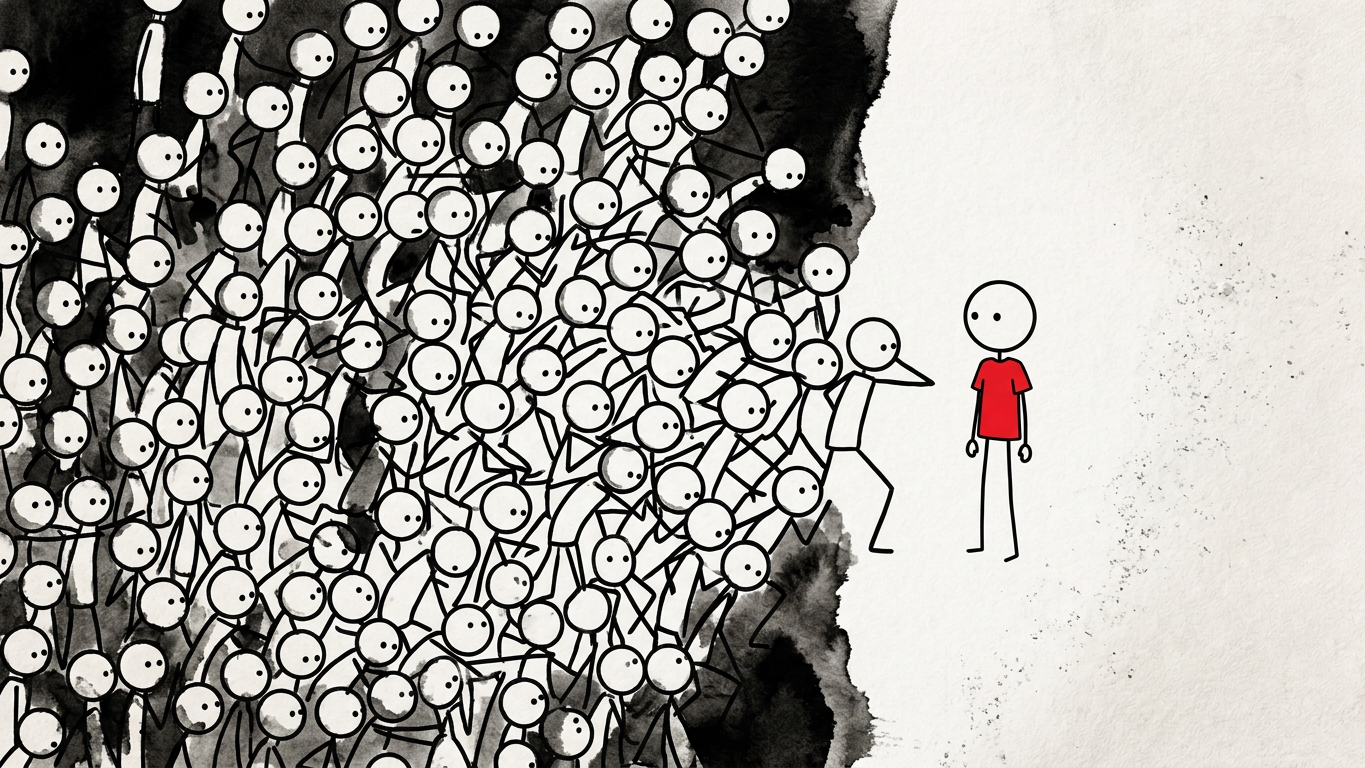
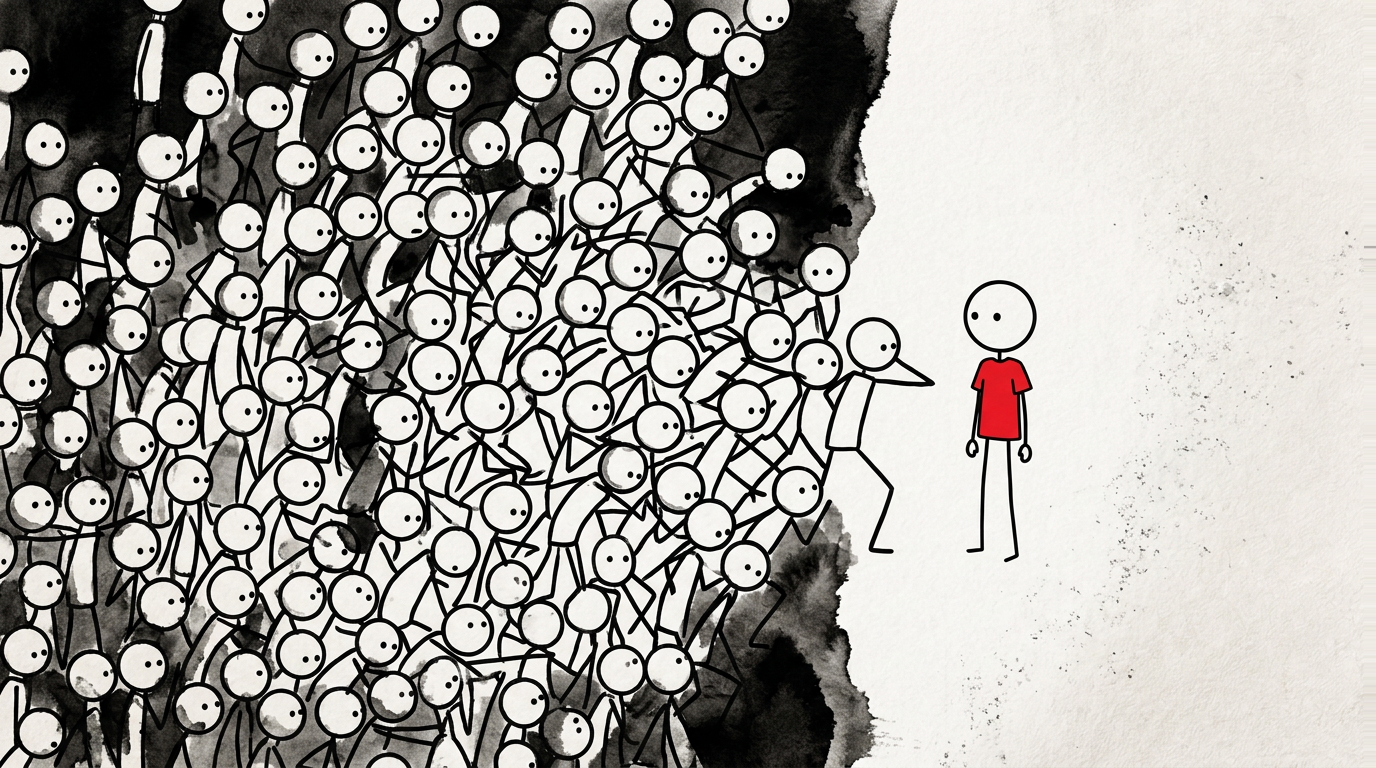
ep01: drop spoken name (Saiki survives -> You survive), fix 3 undersized frames, rebuild animatic

diff --git a/examples/crowd_crush_video/STATUS.md b/examples/crowd_crush_video/STATUS.md
@@ -1,7 +1,41 @@
-# STATUS — `crowd_crush` (Saiki Survives, Ep. 01) — **FRAMES COMPLETE**
+# STATUS — `crowd_crush` (Ep. 01) — **FIXED, READY FOR ENCODE**
 
 **78 / 78 frames.** Silent animatic runs **3:01** at 2.75 words/sec.
 Frame production done. Next step is the Kaggle encode.
+
+## Name fix (2026-10-26)
+
+The spoken line `Saiki survives. See you next time.` was the one place the name
+appeared in the audio, and edge-tts pronounced it wrong. It is now:
+
+> **You survive. See you next time.**
+
+Same six words, so **every timing, chapter and the 3:01 runtime are unchanged** —
+no beat re-timing needed. Changed in `visuals.csv` (row 12/7), `script.md`
+(paragraph + subtitle) and `beats.jsonl`. The visible description signature in
+`metadata.json` also lost the series name.
+
+**Not changed:** the search tag `saiki survives` in `youtube.txt` / `metadata.json`
+tags and the `#saikisurvives` hashtag. Invisible in the video; keep for reach, or
+strip with a find-and-replace if it should go.
+
+### Three frames were 1365x768
+
+`beat06m02`, `beat08m05`, `beat12m03` were 11 px short of native width. The Kaggle
+runner pad-extends odd widths, which would have put a pale stripe on the right
+edge of three dark frames. Fixed here instead by replicating the last real column
+across the shortfall — seamless on all three, verified by eye. **All 78 frames are
+now exactly 1376x768.**
+
+### Re-running the build
+
+The audio has to be regenerated, so **do not set `SKIP_TTS=1`** — that flag would
+reuse the cached narration and keep the old line.
+
+```python
+!git clone --depth 1 --branch arena/d212a50b-newrepo https://github.com/AsuraXP/newrepo.git
+!bash newrepo/run_video_kaggle.sh crowd_crush
+```
 
 ## Preflight: passing
 

diff --git a/examples/crowd_crush_video/script.md b/examples/crowd_crush_video/script.md
@@ -1,6 +1,6 @@
 # The Crowd Doesn't Trample You
 
-*Saiki Survives — Episode 01*
+*Episode 01*
 
 The crowd does not trample you. It kills you standing up. Upright. Awake. In the middle of a crowd that has stopped being a crowd. Nobody in it is running. Nobody is even screaming.
 
@@ -46,5 +46,5 @@ The last move is the only one that scales. Choose your position before you arriv
 
 ---
 
-A crowd of calm people can kill you. A crowd of frightened people usually will not. Density is the only number that matters. So watch the gap between shoulders, and when it disappears, you leave. Not running. Just gone. Saiki survives. See you next time.
+A crowd of calm people can kill you. A crowd of frightened people usually will not. Density is the only number that matters. So watch the gap between shoulders, and when it disappears, you leave. Not running. Just gone. You survive. See you next time.
 
